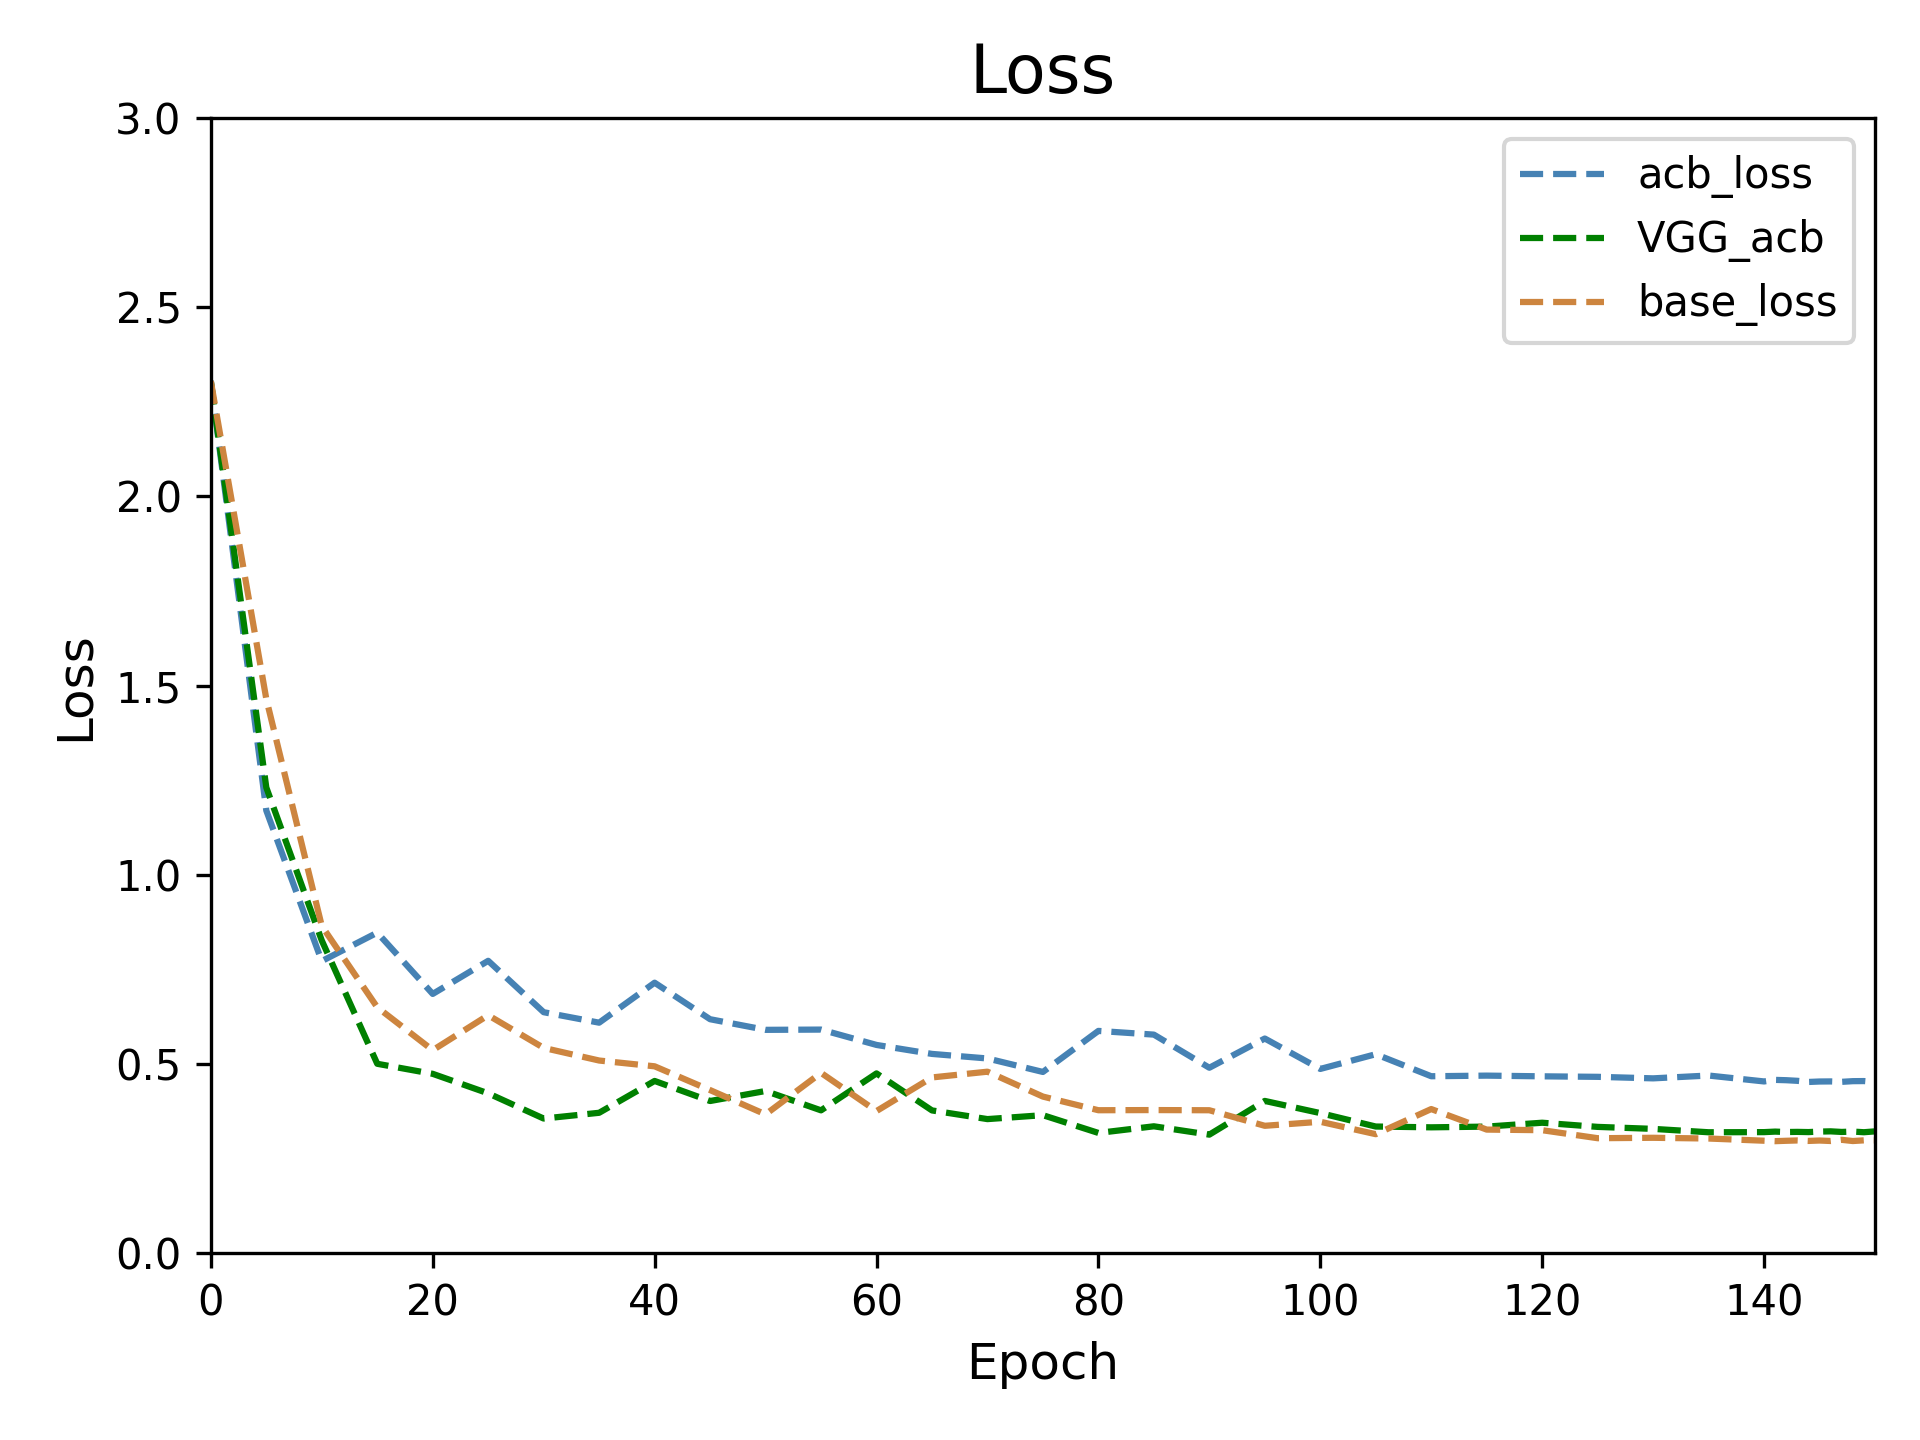
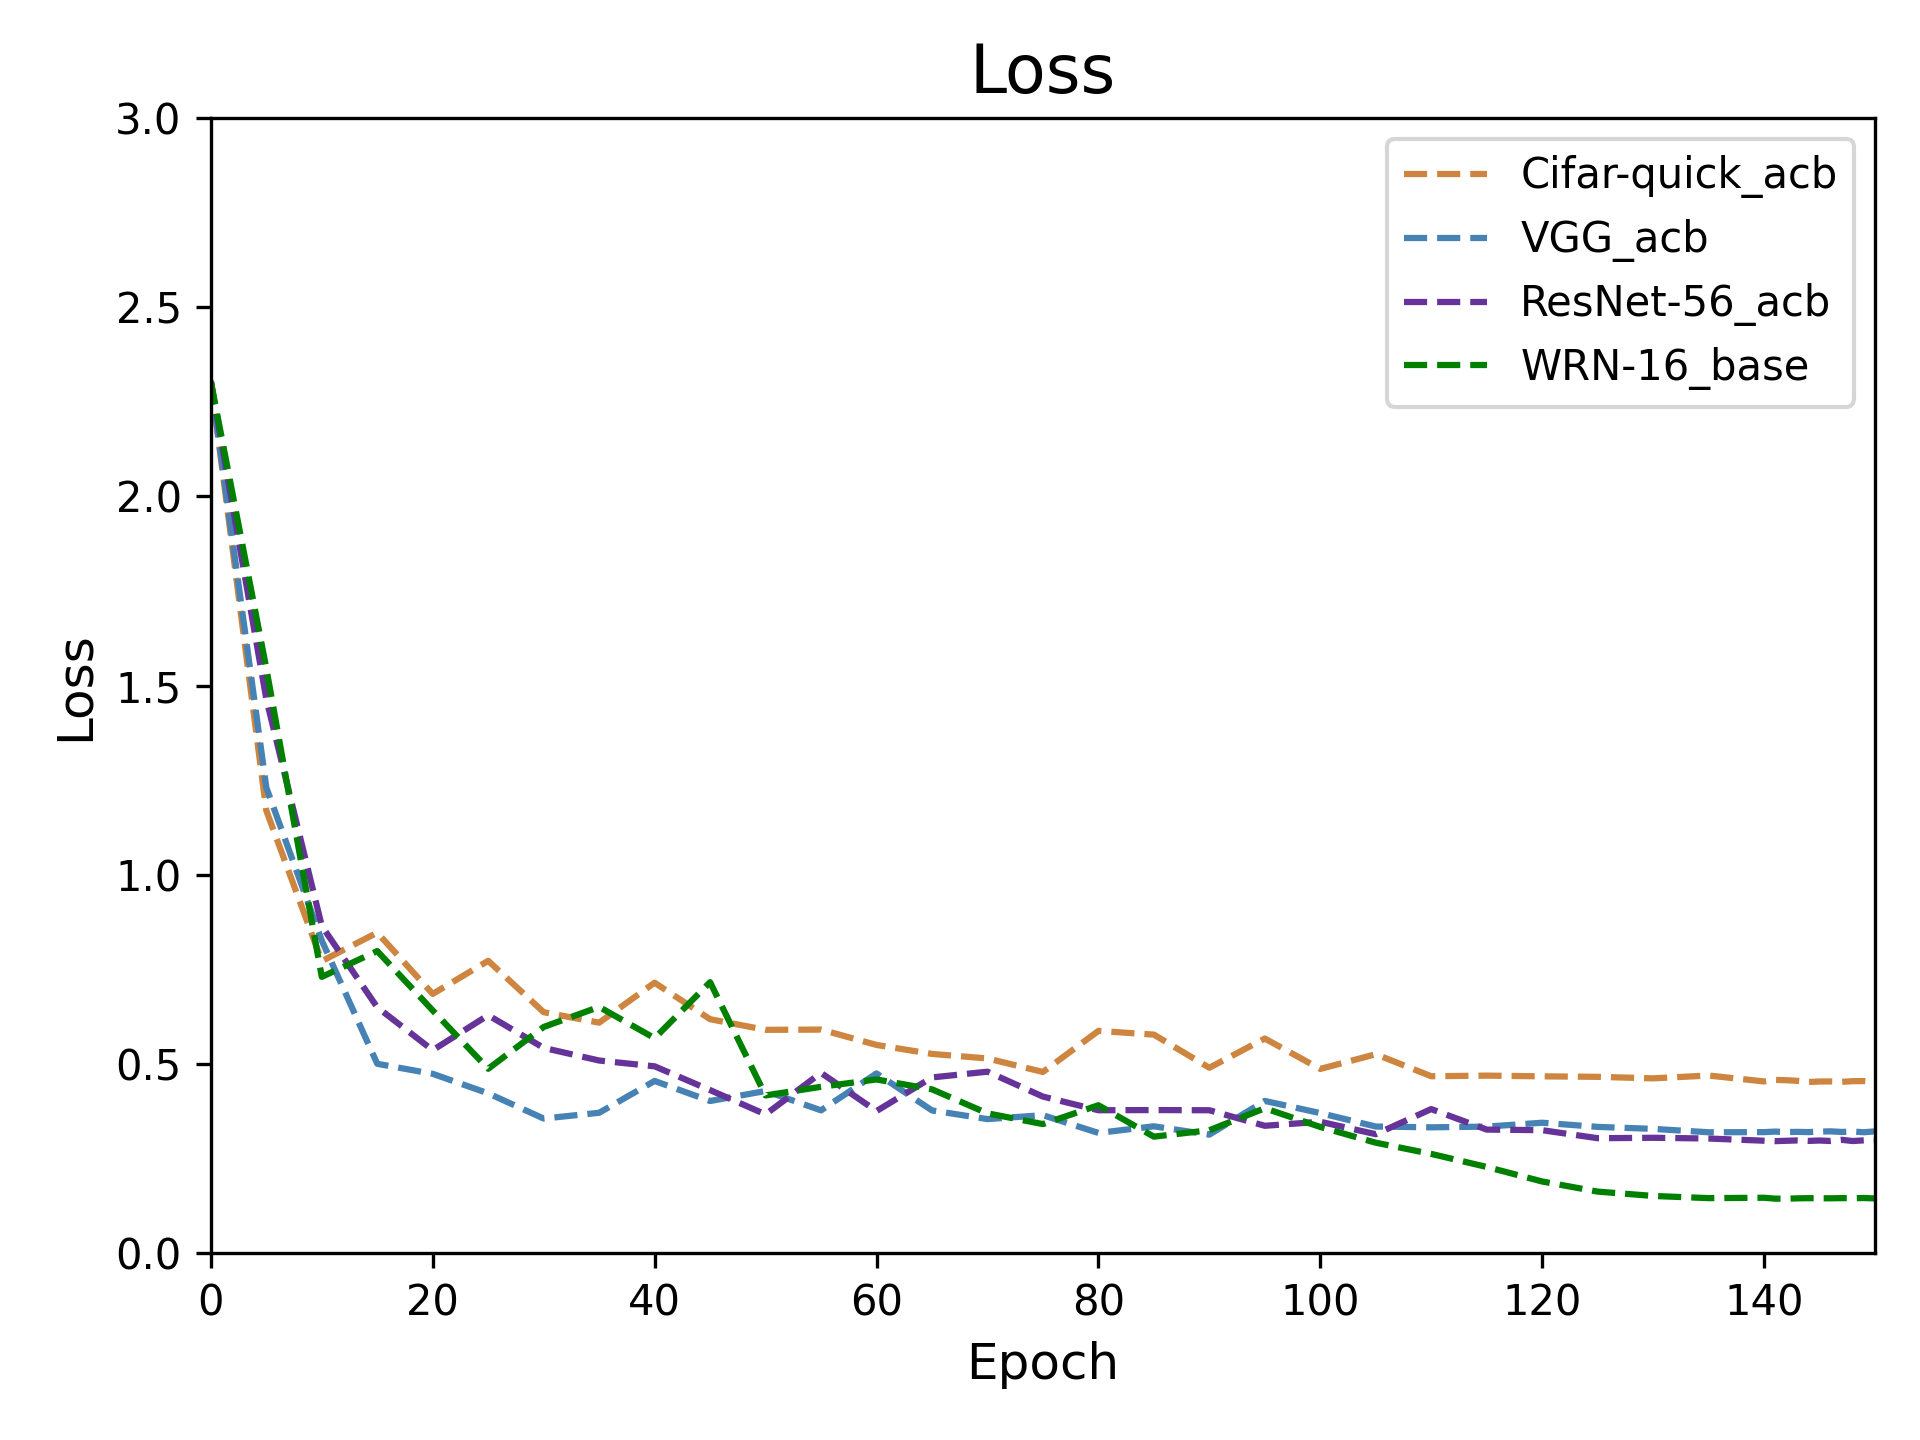
new data

Changed region(s): [[0.0938, 0.2812, 0.9688, 0.8438], [0.7188, 0.0938, 0.9688, 0.2812], [0.875, 0.7188, 0.9062, 0.75]]

diff --git a/data_analysis.py b/data_analysis.py
@@ -30,14 +30,15 @@ data = [cifarquick_base, cifarquick_acb, vgg_base, vgg_acb, res56_base, res56_ac
 
 # 图像尺寸
 plt.figure(figsize=(8, 5))
-fig, ax = plt.subplots()
+
 
 # Top-1 准确率
-
+fig, ax = plt.subplots()
 plt.axis([0, 150, 0, 100])
-ax.plot(cifarquick_acb['epoch'], cifarquick_acb['top1'], '--', label="cifar-quick_acb")
-ax.plot(vgg_acb['epoch'], vgg_acb['top1'], color='g', linestyle='--', label="VGG_acb")
-ax.plot(res56_acb['epoch'], res56_acb['top1'], color='peru', linestyle='--', label="cifar-quick_base")
+ax.plot(cifarquick_acb['epoch'], cifarquick_acb['top1'], color='peru', linestyle='--', label="Cifar-quick_acb")
+ax.plot(vgg_acb['epoch'], vgg_acb['top1'], color='steelblue', linestyle='--', label="VGG_acb")
+ax.plot(res56_acb['epoch'], res56_acb['top1'], color='rebeccapurple', linestyle='--', label="ResNet-56_acb")
+ax.plot(wrn16_base['epoch'], wrn16_base['top1'], color='g', linestyle='--', label="WRN-16_base")
 ax.set_title("Top-1 Accuracy", fontsize=16)
 plt.ylabel("Accuracy", fontsize=12)
 plt.xlabel("Epoch", fontsize=12)
@@ -48,9 +49,10 @@ fig.show()
 # Top-5 准确率
 fig, ax = plt.subplots()
 plt.axis([0, 150, 50, 100])
-ax.plot(cifarquick_acb['epoch'], cifarquick_acb['top5'], '--', label="acb_top5")
-ax.plot(vgg_acb['epoch'], vgg_acb['top5'], color='g', linestyle='--', label="VGG_acb")
-ax.plot(res56_acb['epoch'], res56_acb['top5'], color='peru', linestyle='--', label="base_top5")
+ax.plot(cifarquick_acb['epoch'], cifarquick_acb['top5'],color='peru', linestyle='--',label="Cifar-quick_acb")
+ax.plot(vgg_acb['epoch'], vgg_acb['top5'], color='steelblue', linestyle='--', label="VGG_acb")
+ax.plot(res56_acb['epoch'], res56_acb['top5'], color='rebeccapurple', linestyle='--', label="ResNet-56_acb")
+ax.plot(wrn16_base['epoch'], wrn16_base['top5'], color='g', linestyle='--', label="WRN-16_base")
 ax.set_title("Top-5 Accuracy", fontsize=16)
 plt.xlabel("Epoch", fontsize=12)
 plt.legend(loc='best')
@@ -60,9 +62,10 @@ fig.show()
 # 损失曲线
 fig, ax = plt.subplots()
 plt.axis([0, 150, 0, 3])
-ax.plot(cifarquick_acb['epoch'], cifarquick_acb['loss'], color='steelblue', linestyle='--', label="acb_loss")
-ax.plot(vgg_acb['epoch'], vgg_acb['loss'], color='g', linestyle='--', label="VGG_acb")
-ax.plot(res56_acb['epoch'], res56_acb['loss'], color='peru', linestyle='--', label="base_loss")
+ax.plot(cifarquick_acb['epoch'], cifarquick_acb['loss'], color='peru', linestyle='--', label="Cifar-quick_acb")
+ax.plot(vgg_acb['epoch'], vgg_acb['loss'], color='steelblue', linestyle='--', label="VGG_acb")
+ax.plot(res56_acb['epoch'], res56_acb['loss'], color='rebeccapurple', linestyle='--', label="ResNet-56_acb")
+ax.plot(wrn16_base['epoch'], wrn16_base['loss'], color='g', linestyle='--', label="WRN-16_base")
 ax.set_title("Loss", fontsize=16)
 plt.xlabel("Epoch", fontsize=12)
 plt.ylabel("Loss", fontsize=12)
